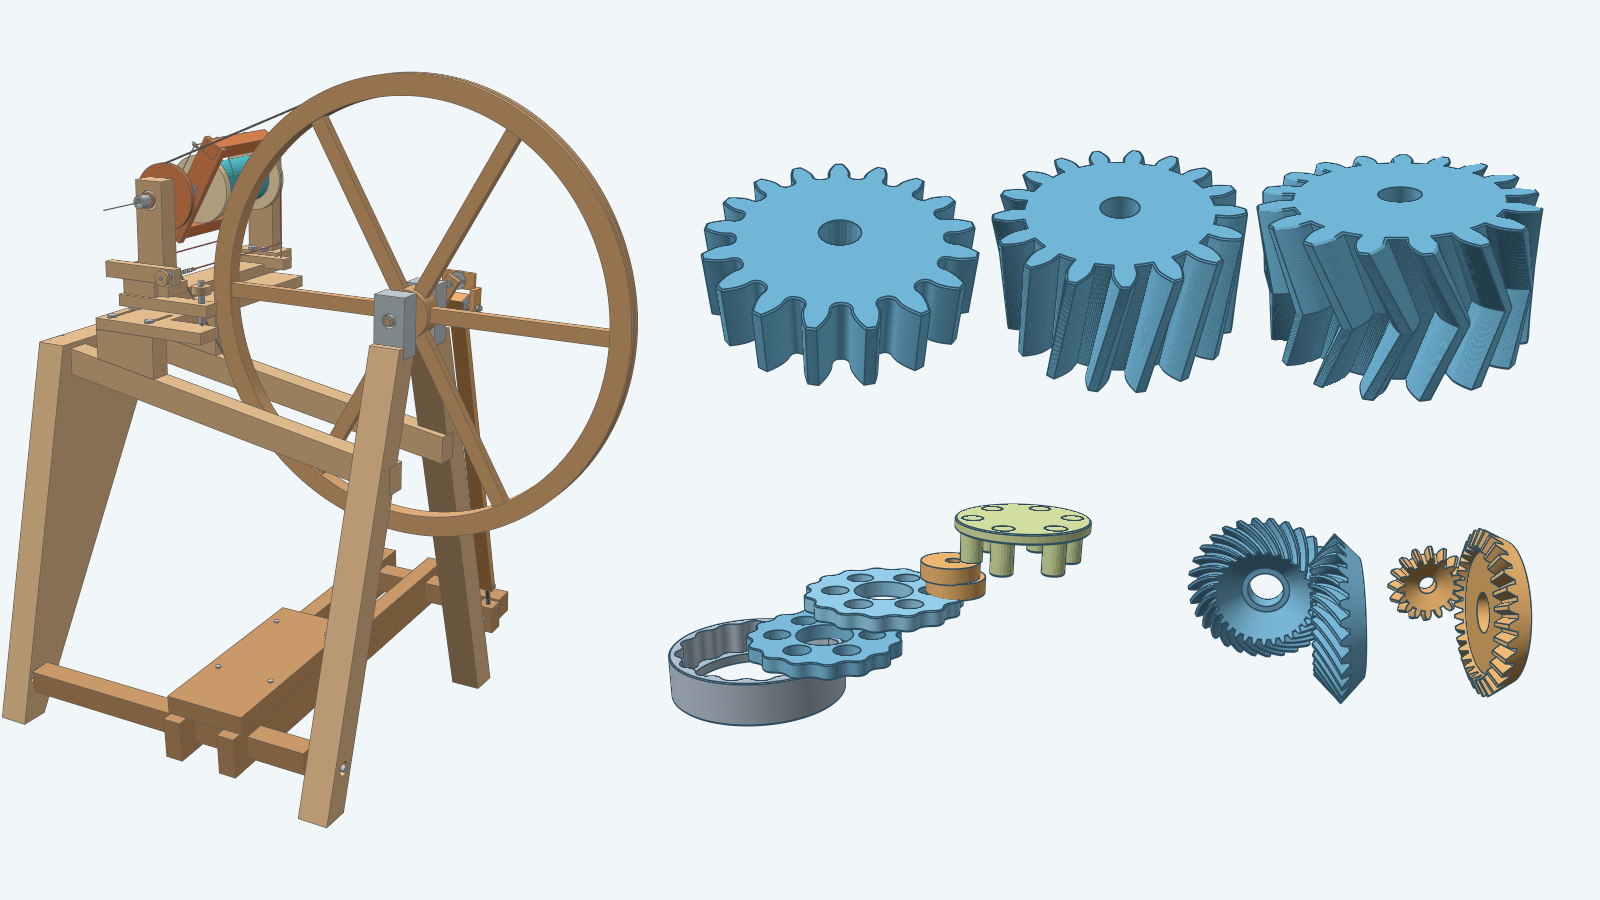
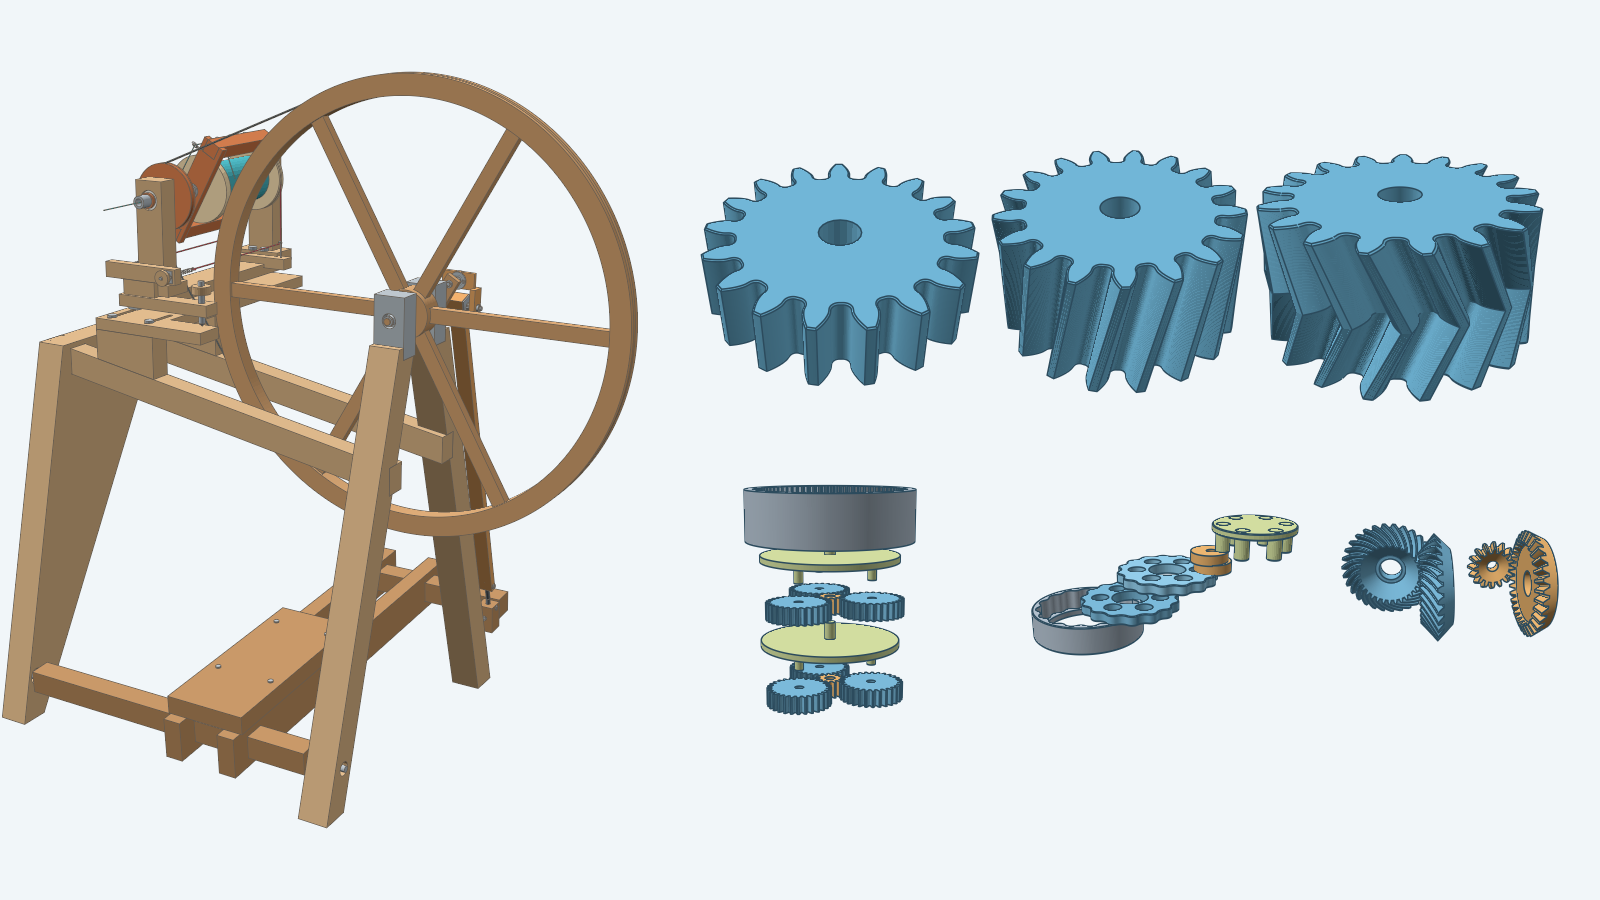
add planetary gearbox to gallery hero

diff --git a/tools/render/gallery.go b/tools/render/gallery.go
@@ -21,17 +21,18 @@ type galleryTile struct {
 	area  image.Rectangle
 }
 
-// galleryTiles puts the spinning wheel on the left, three involute gears in a row above the cycloidal drive
-// and the bevel gear pairs on the right. The wheel tile is a full 16:9 scene whose empty margins extend past
-// the canvas edge and under the gear tiles; renderGallery draws only the pixels that differ from the
-// background, so overlapping margins do not hide neighbours.
+// galleryTiles puts the spinning wheel on the left, three involute gears across the top, and the planetary
+// gearbox, cycloidal drive and bevel gear pairs along the bottom. The wheel tile is a full 16:9 scene whose
+// empty margins extend past the canvas edge and under the gear tiles; renderGallery draws only the pixels
+// that differ from the background, so overlapping margins do not hide neighbours.
 var galleryTiles = []galleryTile{
 	{spinningWheelView("hero"), image.Rect(-480, 0, 1120, 900)},
 	{spurGearHero, image.Rect(555, 100, 1125, 421)},
 	{helicalGearHero, image.Rect(835, 100, 1405, 421)},
 	{herringboneGearHero, image.Rect(1115, 100, 1685, 421)},
-	{cycloidalHero, image.Rect(640, 480, 1120, 750)},
-	{bevelGearHero, image.Rect(1120, 480, 1600, 750)},
+	{planetaryGearboxHero, image.Rect(600, 470, 1060, 730)},
+	{cycloidalHero, image.Rect(1030, 500, 1300, 670)},
+	{bevelGearHero, image.Rect(1300, 500, 1600, 670)},
 }
 
 const (

diff --git a/tools/render/main_test.go b/tools/render/main_test.go
@@ -242,7 +242,8 @@ func TestGalleryHero(t *testing.T) {
 		x, y int
 	}{
 		{"spinning wheel", 70, 120}, {"spur gear", 168, 54}, {"helical gear", 224, 54},
-		{"herringbone gear", 280, 56}, {"cycloidal drive", 172, 120}, {"bevel gears", 272, 122},
+		{"herringbone gear", 280, 56}, {"planetary gearbox", 166, 120},
+		{"cycloidal drive", 232, 117}, {"bevel gears", 290, 117},
 	} {
 		visible := 0
 		for dy := -20; dy <= 20; dy++ {

diff --git a/README.md b/README.md
@@ -1,6 +1,6 @@
 # decad gallery
 
-![A spinning wheel beside a spur gear, helical gear, herringbone gear, cycloidal drive, and bevel gear pairs](docs/images/gallery.png)
+![A spinning wheel beside spur, helical, herringbone, planetary, cycloidal and bevel gears](docs/images/gallery.png)
 
 A gallery of parametric 3D shapes, patterns, and assemblies built with
 [decad](https://github.com/lestrrat-3d/decad). Each model is a solid body whose dimensions come from
@@ -9,9 +9,10 @@ become part of a hand-crank siren or a wind turbine.
 
 ## Models
 
-The [models](models/) include spur, helical, herringbone, bevel and screw gears, a cycloidal drive,
-and a [treadle spinning wheel](models/spinningwheel/) with a flyer and bobbin.
-Each model's page shows rendered images and lists the inputs you can change.
+The [models](models/) include spur, helical, herringbone, bevel and screw gears, a cycloidal drive, and a
+planetary gearbox. They also include a [treadle spinning wheel](models/spinningwheel/) with a flyer and bobbin,
+and 608-2RS and 605ZZ bearing envelopes. Each model's page shows rendered images and lists the inputs you can
+change.
 
 Every model directory holds two specification files. `instructions.md` states the inputs and defaults,
 units, derived values, geometric construction, feature order, valid parameter range, and representative

diff --git a/docs/rendering.md b/docs/rendering.md
@@ -141,13 +141,13 @@ writes `cutaway.png`, and the preset can be rendered on its own:
 go -C tools/render run . -model screwgear -shot cutaway -out ../../models/screwgear/images/cutaway.png
 ```
 
-The `gallery/hero` preset does not include the screw gear.
+The `gallery/hero` preset does not include the ball bearing or screw gear.
 
 The `gallery/hero` preset writes the repository's hero image, `docs/images/gallery.png`. It renders the hero
-scenes of the spinning wheel and the spur, helical, herringbone, cycloidal and bevel gear models one after
-another, places each at its own size on a 1600 × 900 pixel canvas (the wheel on the left, the gears on the
-right), and keeps only the pixels that differ from the background where the tiles overlap. Building all six
-models takes about six minutes plus the wheel build:
+scenes of the spinning wheel, the spur, helical and herringbone gears, the planetary gearbox, the cycloidal
+drive and the bevel gear pair one after another. It places each at its own size on a 1600 × 900 pixel canvas
+(the wheel on the left, the gears on the right), and keeps only the pixels that differ from the background
+where the tiles overlap. Building all seven models takes about six minutes plus the wheel build:
 
 ```sh
 go -C tools/render run . -model gallery -shot hero -out ../../docs/images/gallery.png

diff --git a/models/README.md b/models/README.md
@@ -3,7 +3,7 @@
 | Model | Image | Description |
 | --- | --- | --- |
 | [Treadle spinning wheel](spinningwheel/) | <img src="spinningwheel/images/index.png" alt="Saxony wheel with a flyer and bobbin" width="240"> | A single drive band turns a hollow flyer around an independently rotating bobbin with a Scotch brake. |
-| [Ball bearing envelope](ballbearing/) | <img src="ballbearing/images/index.png" alt="608-2RS mounting envelope" width="240"> | A purchased bearing's nominal bore, outside diameter and width for fitting an assembly. |
+| [Ball bearing envelope](ballbearing/) | <img src="ballbearing/images/index.png" alt="608-2RS mounting envelope" width="240"> | 608-2RS and 605ZZ nominal bore, outside diameter and width for fitting an assembly. |
 | [Spur gear](spurgear/) | <img src="spurgear/images/index.png" alt="Bored spur gear" width="240"> | A straight-toothed involute gear with optional bore and cap chamfers. |
 | [Helical gear](helicalgear/) | <img src="helicalgear/images/index.png" alt="Bored helical gear" width="240"> | An involute gear with teeth twisted along its axis. |
 | [Herringbone gear](herringbonegear/) | <img src="herringbonegear/images/index.png" alt="Bored herringbone gear" width="240"> | An involute gear with mirrored tooth slopes that meet at its midpoint. |
